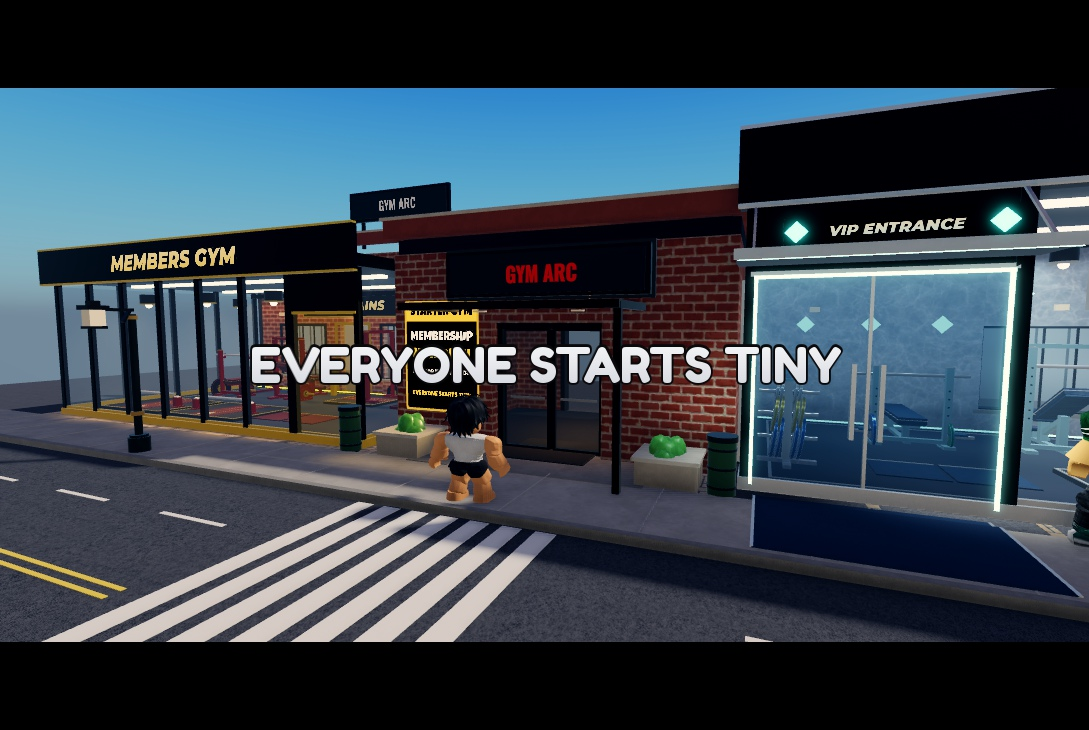
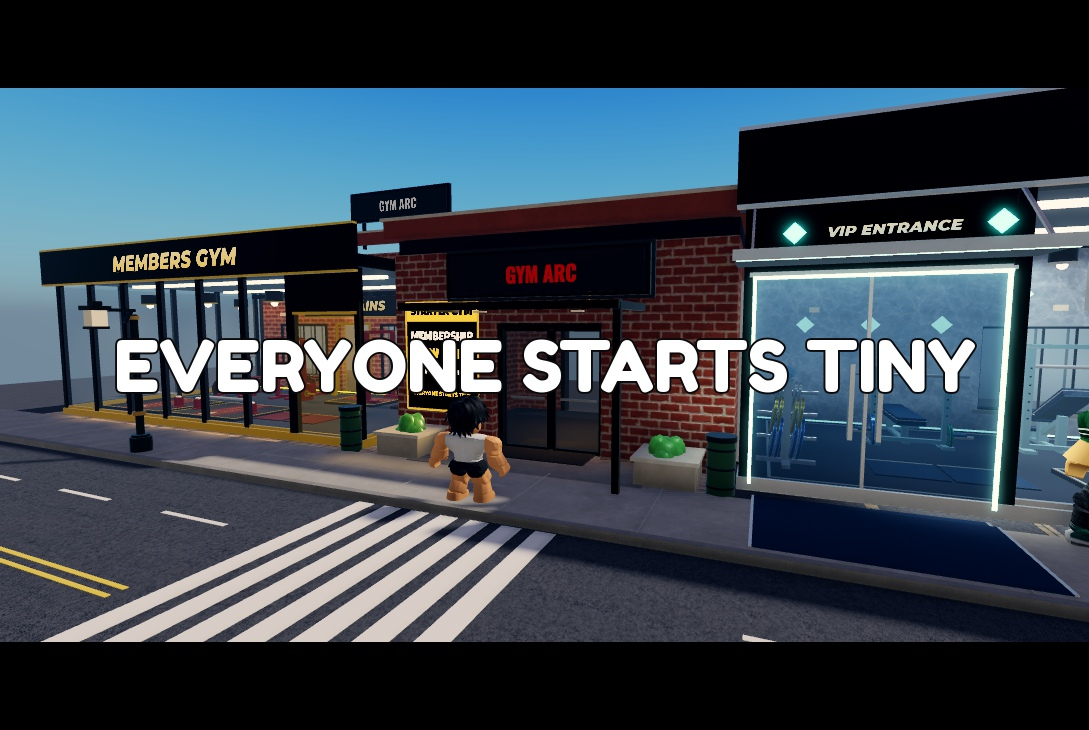
GYM ARC: intro cutscene sound channel, loud SFX, footsteps, white titles, joint fix

diff --git a/GYM ARC/Progress/2026-11-02 GYM ARC Future You and Progression Road + live playtest fixes.md b/GYM ARC/Progress/2026-11-02 GYM ARC Future You and Progression Road + live playtest fixes.md
@@ -67,3 +67,8 @@ Left as is (owner decisions or not bugs): the Starter Pack's always-on card (31 
 - **Sound on everything + better music** (all licensed or Roblox built-in): street bed APM "Leaving the City" -> tension sting when Benny comes -> his footsteps (Roblox's own, heavier) and yours -> grunt + whoosh + hit + your gasp on the shove -> body fall thud (+ low layer, dust) -> sad piano APM "Reflection" + PSE boy sniffles while you cry -> PSE evil laugh on "Go home, punk" -> glass door as he goes in -> APM "Brave" rises at the poster (+ shimmer), getting up, deep breath, fist -> title boom. Only the music group is muted meanwhile (the game's SFX stay audible); everything fades out after. The intro music no longer plays twice. Tested: every licensed sound loaded and played.
 - **Removed NPCs (owner):** no errors; 17 NPCs at run time.
 - Screenshots: `GYM ARC/Screenshots/road/intro_1..4`.
+- **More owner feedback on the intro (2 Nov, later):**
+  - Sounds were too quiet (the game's own clips come out near silent there): the cutscene now has its own sound channel at full volume and its own licensed clips: PSE whoosh + grunt + hand/body thud + gasp on the shove, PSE "Body Fall Concrete 2" + low thud on the fall, PSE boy sniffles x3 (volume 6, the piano dips under each), evil laugh, glass door, APM thump/boom. Footsteps (Roblox's built-in) at volume 2 / 2.6 (Benny heavier). Tested: all load and play at the right beats.
+  - Centre titles: FredokaOne, pure white (no gradient), bigger (66).
+  - Holes at elbows / knees: softer bends in the cry, laugh and fist poses (R15 opens gaps at sharp bends).
+  - Street props in front of the opening camera and the canopy post in front of the poster removed from the set.
